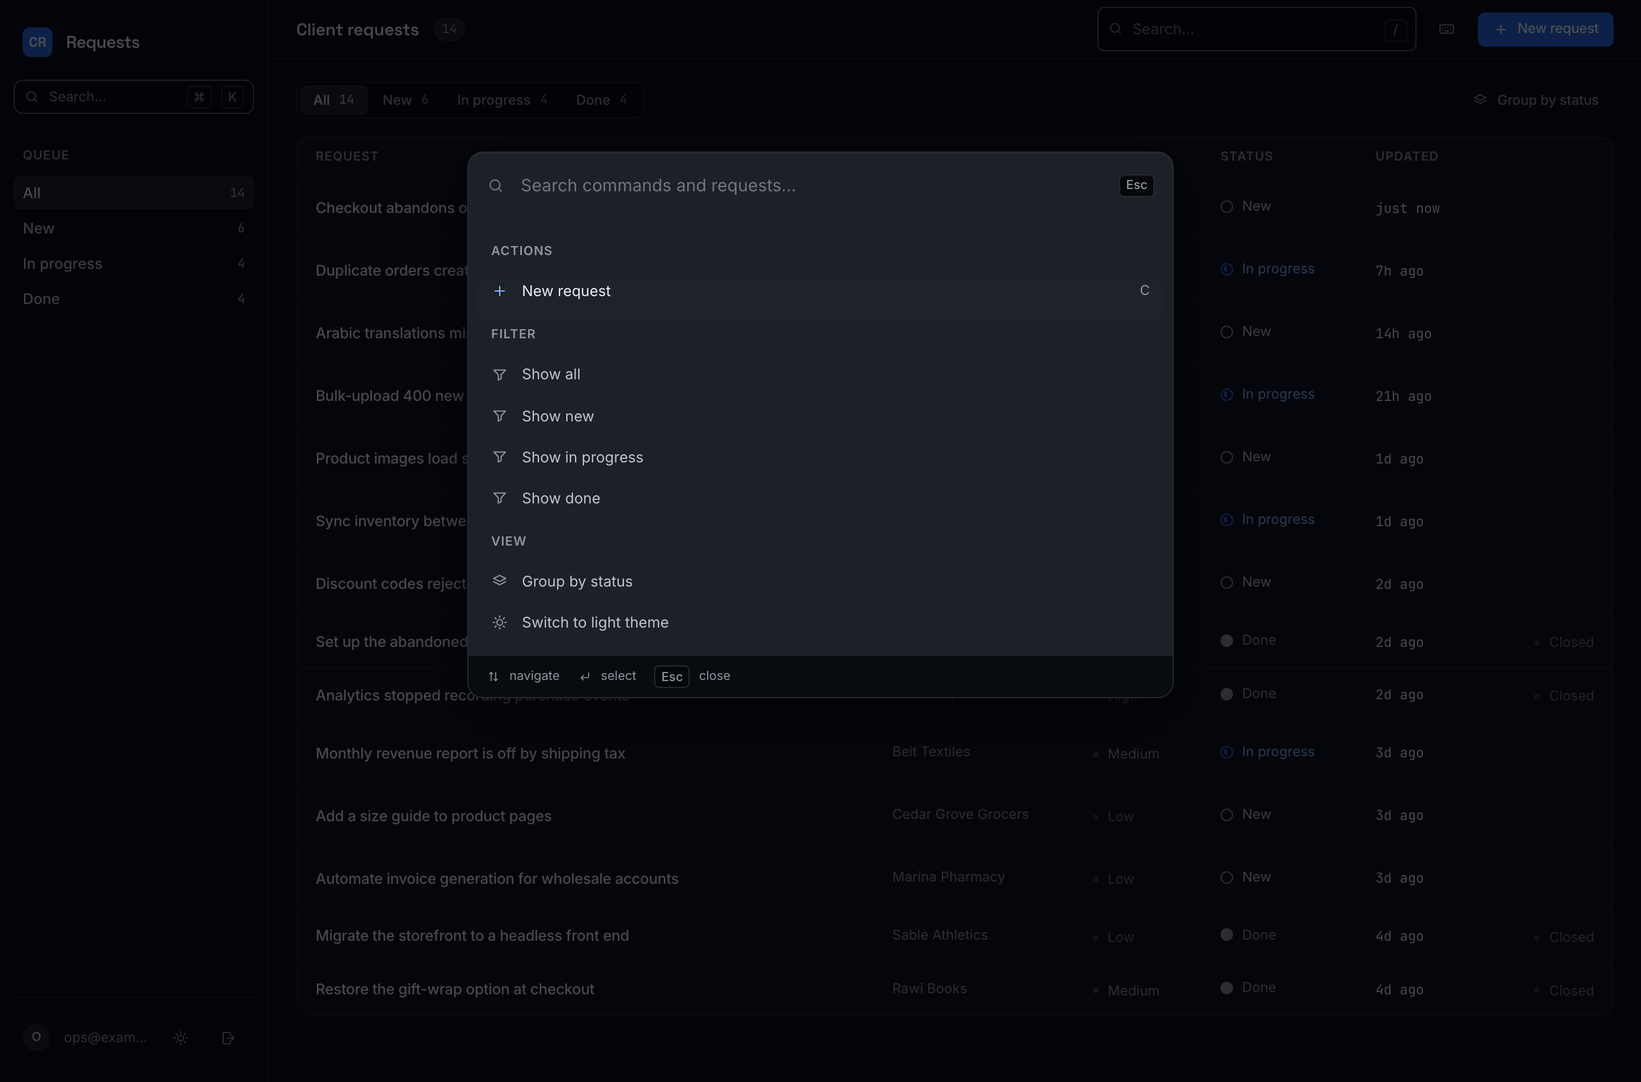
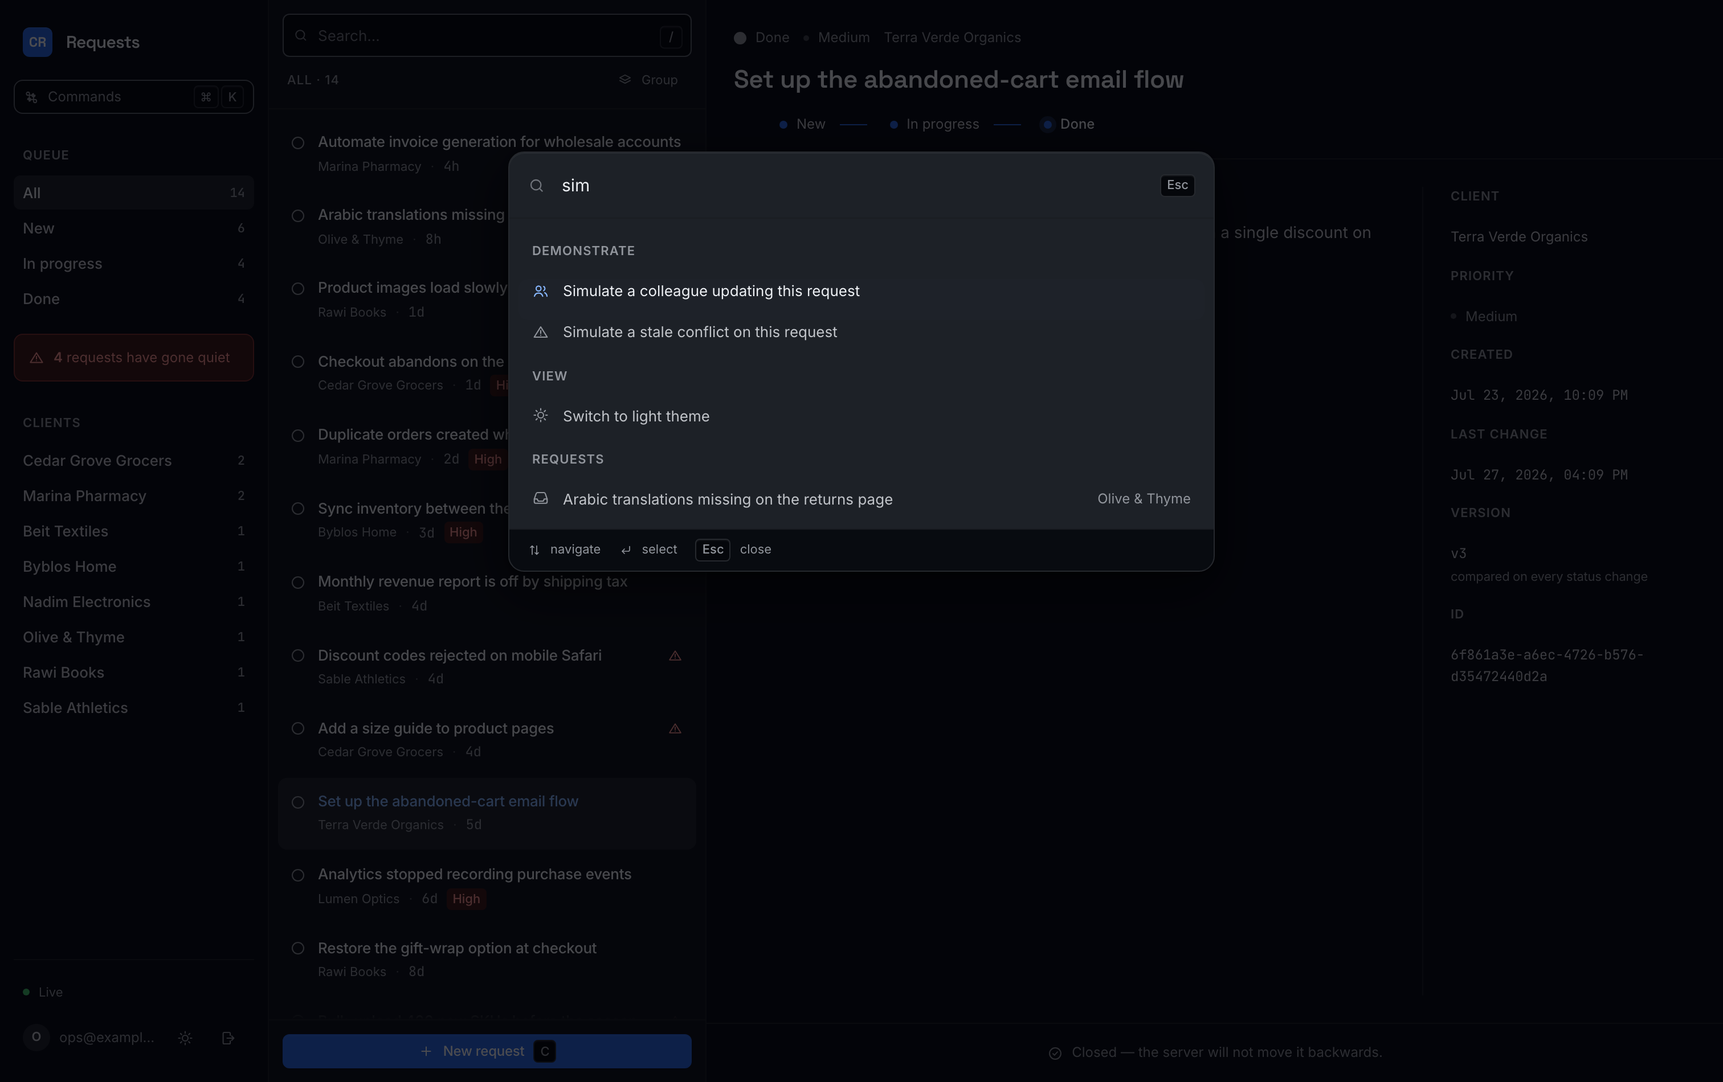
docs: README and screenshots for the cockpit
Covers the three panes and the keyboard model, the attention rules, the trail,
SSE with stream tickets, the demonstration commands, and a deployment path
(Neon → Render → Vercel) with migrations as a pre-deploy step.

Drops the screenshots of the table UI, which no longer exists.

diff --git a/README.md b/README.md
@@ -1,21 +1,35 @@
 # Client Requests
 
-An internal dashboard for tracking incoming client work: what came in, who it is for,
-and where it stands. React + TypeScript on the front, Express + Postgres behind it.
+A triage cockpit for incoming client work: what came in, whose it is, where it stands,
+and — the part that matters for an agency — what has gone quiet. React + TypeScript on
+the front, Express + Postgres behind it, with changes pushed live over SSE.
 
 Keyboard-first, dark by default, with a light theme that follows your OS until you
 choose otherwise.
 
-![The requests dashboard](docs/dashboard.png)
+![The triage cockpit](docs/cockpit-dark.png)
+
+Three panes rather than a table. The rail is where you choose *what to look at* — by
+status, by client, or by what the server has flagged as neglected. The queue is a dense
+list you walk with `j`/`k`. The detail pane updates as you move, with no modal and no
+round trip, so reading through fourteen requests is fourteen keystrokes.
 
 <table>
 <tr>
+<td width="50%"><img src="docs/trail-dark.png" alt="A request's activity trail" /></td>
 <td width="50%"><img src="docs/palette.png" alt="Command palette" /></td>
-<td width="50%"><img src="docs/drawer.png" alt="Request detail drawer" /></td>
 </tr>
 <tr>
-<td><code>⌘K</code> — commands, filters, and every loaded request</td>
-<td>The full record, including the version the conflict check compares</td>
+<td>Every status change, who made it, and the version it produced</td>
+<td><code>⌘K</code> — fuzzy-matched commands, clients, and every loaded request</td>
+</tr>
+<tr>
+<td><img src="docs/request-log.png" alt="Live request log" /></td>
+<td><img src="docs/cockpit-light.png" alt="Light theme" /></td>
+</tr>
+<tr>
+<td><code>G</code> — every API call this tab has made, with timings and request ids</td>
+<td>The same interface in light</td>
 </tr>
 </table>
 
@@ -69,7 +83,11 @@ npm run dev
 | `ops@example.com` | `demo1234` |
 
 The API runs on `:4000`; Vite proxies `/api` to it, so there is no CORS setup and no
-base URL to configure.
+base URL to configure. Open a second window side by side and advance something in one —
+the other updates without a refresh.
+
+To see the concurrency handling without arranging a race yourself, press `⌘K` and look
+under **Demonstrate**.
 
 ### Scripts
 
@@ -90,6 +108,51 @@ derived from `DATABASE_URL` automatically.
 
 Built and tested on Node 26; anything from Node 20 up will work.
 
+### Deploying it
+
+Three free tiers, in this order — each step needs a URL from the one before it.
+
+**1. Postgres — [Neon](https://neon.tech).** Create a project and copy the pooled
+connection string. Seed it once from your machine — Render's pre-deploy step below
+handles migrations from then on:
+
+```bash
+DATABASE_URL='<neon connection string>' npm run db:migrate
+DATABASE_URL='<neon connection string>' npm run db:seed
+```
+
+**2. API — [Render](https://render.com).** New Web Service from the repo.
+
+| Setting | Value |
+| --- | --- |
+| Build command | `npm install && npm run build --workspace server` |
+| Pre-deploy command | `npm run migrate --workspace server` |
+| Start command | `npm start --workspace server` |
+| Health check path | `/api/v1/health` |
+
+Migrations run as a pre-deploy step rather than on boot. On one instance the difference
+is invisible; on two it is the difference between one migration and a race between
+replicas, and the runner is idempotent either way.
+
+Environment: `DATABASE_URL` (Neon), `AUTH_SECRET` (a long random string — not the
+example one), `NODE_ENV=production`, `DEMO_MODE=true`, and `CORS_ORIGIN` set to the
+Vercel URL from step 3. Leave `CORS_ORIGIN` blank on the first deploy and fill it in
+once you have that URL.
+
+**3. Client — [Vercel](https://vercel.com).** Import the repo, root directory `client`,
+framework Vite. One environment variable:
+
+```
+VITE_API_BASE_URL=https://<your-render-service>.onrender.com/api/v1
+```
+
+Then set `CORS_ORIGIN` on Render to the Vercel URL and redeploy it.
+
+Render's free tier sleeps after fifteen minutes of inactivity, so the first request
+after a quiet spell takes about thirty seconds. `DEMO_MODE=true` puts *Reset the demo
+data* in the palette, so a visitor who marks everything done cannot spoil it for the
+next one.
+
 ---
 
 ## The interface
@@ -98,18 +161,28 @@ Everything is reachable without a mouse. `?` opens the full sheet in-app.
 
 | Key | Action |
 | --- | --- |
-| `⌘K` / `Ctrl K` | Command palette — actions, filters, and jump-to-request |
+| `⌘K` / `Ctrl K` | Command palette — toggles, so the same key closes it |
+| `J` `K` | Move through the queue; the detail pane follows |
+| `H` `L` | Move focus between panes |
+| `E` | Advance the selected request |
 | `/` | Search |
 | `C` | New request |
-| `J` `K` | Move the selection |
-| `↵` | Open the selected request |
-| `E` | Advance the selected request |
 | `1`–`4` | Filter by status |
+| `5` | Only what needs attention |
+| `G` | Show the live request log |
+| `Esc` | Widen: clear the search, then the filters |
 | `?` | Shortcut sheet |
+
+Vertical for items, horizontal for panes. That is the vim spatial model, and it is worth
+having only because there *are* panes to move between — it is the reason the layout and
+the keyboard scheme were designed together rather than one bolted onto the other.
 
 The palette follows the Linear / Raycast pattern: it opens instantly with no entrance
 animation, the input keeps focus throughout, and the *highlight* moves between rows
 while the rows themselves stay put — an animated list is disorienting to arrow through.
+Matching is subsequence-based and scored, so "sim conf" finds "Simulate a stale
+conflict", and every command shows its shortcut — the palette is also how people learn
+the keys and stop needing the palette.
 
 Single-key shortcuts yield to whatever you are typing into. Without that guard, typing
 "check" into the search box would fire `C`, `E` and `K` on the way past; it is the
@@ -128,18 +201,23 @@ paint — otherwise every load flashes the wrong theme, which is the most obviou
 │       ├── config/env.ts          zod-validated environment, checked at boot
 │       ├── db/                    pool · migration runner · migrations · seed
 │       ├── middleware/            requestId · requireAuth · errorHandler
-│       ├── lib/                   ApiError · logger
+│       ├── lib/                   ApiError · logger · eventBus
 │       └── modules/
 │           ├── auth/              mock login, real signed tokens
+│           ├── events/            SSE stream · single-use stream tickets
+│           ├── demo/              env-gated reset, so a public demo survives visitors
 │           └── requests/          routes → controller → service → repository
+│                                  + attention rules, shared by JS and SQL
 └── client/
     └── src/
         ├── styles/                design tokens + one stylesheet
         ├── lib/apiClient.ts       the only place fetch is called
-        ├── components/            Button · Field · Badge · Toast · StateBlock
+        ├── components/            Button · Field · Badge · Toast · RequestLog
         └── features/
             ├── auth/              context · sign-in · route guard
-            └── requests/          page · table · status control · dialog · hooks
+            ├── command/           palette + subsequence scoring
+            ├── events/            useEventStream — SSE into the query cache
+            └── requests/          page · list · detail · dialog · hooks
 ```
 
 The backend is four layers, and each one only knows about the one below it:
@@ -157,16 +235,25 @@ database noise around it, and the SQL is reviewable without reading past busines
 
 ```
 click
-  └─ RequestsPage.handleAdvance()          reads the row's current version
+  └─ RequestsPage.advance()                reads the row's current version
       └─ useAdvanceStatus.mutate()
           ├─ onMutate                      cancel refetches, snapshot cache,
           │                                write the new status → UI updates now
           ├─ PATCH /api/v1/requests/:id/status
           │     └─ requireAuth             401 if the token is missing or expired
-          │     └─ controller              zod-parses body and params
-          │     └─ service                 is new → in_progress legal?  422 if not
-          │     └─ repository              UPDATE … WHERE id = $1 AND version = $2
-          │                                0 rows matched → someone else won → 409
+          │     └─ controller              zod-parses body and params; takes the
+          │                                actor from the session, not the body
+          │     └─ service                 stale version?           → 409
+          │                                is new → in_progress legal?  422 if not
+          │     └─ repository              one statement:
+          │                                  UPDATE … WHERE id = $1 AND version = $2
+          │                                  + INSERT the event, reading from it
+          │                                0 rows matched → someone else won → 409,
+          │                                and no history is written
+          │     └─ service                 publish `request.updated` — after commit,
+          │                                never before
+          │                                   └─ SSE → every other connected tab,
+          │                                      which patches that one row in place
           ├─ onError                       roll back; on 409 write the live row the
           │                                server sent and explain in a toast
           └─ onSettled                     invalidate, refetch, cache matches server
@@ -179,17 +266,21 @@ click
 Base path `/api/v1`. Everything except `/health` and `/auth/login` needs
 `Authorization: Bearer <token>`.
 
-| Method  | Path                    | Purpose                                    |
-| ------- | ----------------------- | ------------------------------------------ |
-| `GET`   | `/health`               | Liveness, including a real database ping   |
-| `POST`  | `/auth/login`           | Exchange credentials for a session token   |
-| `GET`   | `/auth/me`              | Who the current token belongs to           |
-| `GET`   | `/requests`             | Paginated list; filter, search, sort       |
-| `GET`   | `/requests/stats`       | Counts per status, for the sidebar         |
-| `POST`  | `/requests`             | Create — always starts at `new`            |
-| `PATCH` | `/requests/:id/status`  | Advance the status                         |
+| Method  | Path                     | Purpose                                          |
+| ------- | ------------------------ | ------------------------------------------------ |
+| `GET`   | `/health`                | Liveness, including a real database ping         |
+| `POST`  | `/auth/login`            | Exchange credentials for a session token         |
+| `GET`   | `/auth/me`               | Who the current token belongs to                 |
+| `GET`   | `/requests`              | Paginated list; filter, search, sort             |
+| `GET`   | `/requests/stats`        | Counts per status and per client, for the rail   |
+| `GET`   | `/requests/:id/activity` | That request's trail, oldest first               |
+| `POST`  | `/requests`              | Create — always starts at `new`                  |
+| `PATCH` | `/requests/:id/status`   | Advance the status                               |
+| `POST`  | `/events/ticket`         | Exchange the session token for a stream ticket   |
+| `GET`   | `/events?ticket=…`       | Server-Sent Events: `request.created`/`.updated` |
+| `POST`  | `/demo/reset`            | Reseed. Only mounted when `DEMO_MODE=true`.      |
 
-**List** — `?status=new|in_progress|done&q=<text>&page=1&pageSize=20&sort=createdAt:desc`
+**List** — `?status=new|in_progress|done&attention=true&client=<name>&q=<text>&page=1&pageSize=20`
 
 ```jsonc
 {
@@ -203,7 +294,15 @@ Base path `/api/v1`. Everything except `/health` and `/auth/login` needs
       "status": "new",
       "version": 1,
       "createdAt": "2026-07-27T09:14:02.331Z",
-      "updatedAt": "2026-07-27T09:14:02.331Z"
+      "updatedAt": "2026-07-27T09:14:02.331Z",
+
+      // Derived on every read, never stored — it is a function of the clock, so a
+      // stored copy would be wrong the moment nobody wrote to the row.
+      "attention": {
+        "reason": "unacknowledged_high",
+        "label": "High priority, unacknowledged for 30 hours",
+        "hours": 30
+      }
     }
   ],
   "pagination": { "page": 1, "pageSize": 20, "total": 14, "totalPages": 1 }
@@ -268,6 +367,60 @@ and one person's action vanishes with no error anywhere. The check and the write
 single statement, so there is no read-then-write gap to race through — and it costs no
 locks.
 
+**The product has an opinion, and it lives on the server.** Every request in a flat
+queue is equal, which is exactly the failure mode of an agency queue — the thing that
+hurts is not volume, it is a request nobody has answered. Three rules in
+`requests.attention.ts` say what neglect looks like: a high-priority request
+unacknowledged for a day, anything waiting three days, work started and untouched for
+five. The thresholds are named constants used twice — once by the JavaScript that
+decorates each row, once by the SQL fragment that powers `?attention=true` and the
+count. One source, two consumers, so the filter and the badge can never disagree.
+
+It surfaces as a sentence — "4 requests have gone quiet" — rather than a stat card.
+Everyone ships stat cards and nobody reads them.
+
+**An append-only trail, written in the same statement as the change.** `client_requests`
+holds the current state; `request_events` holds how it got there — who, when, from what
+to what, and which version the write produced. The insert is a data-modifying CTE
+attached to the `UPDATE`, so there is no window where a status change exists without its
+history, and a compare-and-set that *loses* writes no history at all. The actor comes
+from the verified session, never the request body: an actor a client can name is an
+actor a client can forge, and a trail that records whatever it is told is worse than no
+trail because it looks authoritative.
+
+**Live updates over SSE, not WebSockets.** The traffic is entirely one-directional — the
+server says what changed, and there is already a perfectly good REST API for writing. A
+WebSocket would add a second protocol with its own framing, heartbeats and reconnect
+logic to buy a direction that is never used. On `request.updated` the client patches the
+matching row in every cached list *surgically* instead of invalidating; on
+`request.created` it invalidates, because a new row moves ordering and page boundaries.
+
+**Stream tickets, because `EventSource` cannot send a header.** The usual workaround is
+`?token=<session token>`, which writes an eight-hour credential into every access log,
+proxy cache and browser history entry along the way. Instead `POST /events/ticket`
+exchanges the bearer token for a **single-use, thirty-second** ticket, and the stream
+opens with that. A leaked ticket is worth nothing: it has already been spent. About
+twenty-five lines, and it is the difference between a demo and something you could
+deploy.
+
+**Timestamps are normalised in the driver.** Postgres writes
+`2026-07-23 21:19:37.119764+03` — a space instead of `T`, and an offset with no minutes.
+`Date` is not required to parse that: V8 does, which is why it looks fine in Chrome and
+in Node, and Safari returns `Invalid Date`. One `toISOString()` in the type parser fixes
+it once for every timestamp in the system, rather than in each place that happens to
+render one. A bug that appears on one engine, in a field nobody thinks of as parsed, is
+exactly the kind that reaches production.
+
+**The strongest engineering here is invisible, so there is a way to see it.** A
+*Demonstrate* group in the palette fires a genuine second-session write. "Simulate a
+colleague" lets the update arrive over the stream and watch the row change in front of
+you. "Simulate a stale conflict" makes the same write but withholds the live update for
+that one row, so this client is *genuinely* stale and the next advance produces a real
+409 from a real version mismatch. Nothing about the server is faked; the only trick is
+withholding a refresh, which is precisely the state a backgrounded tab is in. `G` opens
+a log of every call the tab has made, with status, duration and the request id that
+matches the server's logs.
+
 **Optimistic updates, with an honest rollback.** The row changes the instant you click
 rather than after the round trip. If the server disagrees, the cache rolls back to the
 snapshot taken before the mutation, and a 409 additionally writes in the live row the
@@ -326,8 +479,13 @@ Front end:
 - Forms validate on blur and then live, so nobody is told their email is wrong while
   typing the first character. Helper text reserves its line so errors do not push the
   page down.
-- Below 768px the table becomes cards — still a real `<table>` in the markup, with each
-  cell labelled, rather than a data grid you have to scroll sideways.
+- The layout degrades in two steps, not one: below 1100px the detail pane becomes an
+  overlay over the queue; below 860px the rail folds into a top bar. Both paths reuse the
+  same components, so there is no second implementation to keep in sync.
+- The selection is validated against the list rather than merely set. Switching filters
+  keeps the previous page on screen while the next loads, so a naive "select the first
+  row" grabs one from the list that is about to be replaced — and lands on an id nothing
+  matches, leaving an empty pane beside a full queue with no state change left to fix it.
 - Keyboard-complete: skip link, visible focus rings everywhere, native `<dialog>` for
   the focus trap and Escape handling. Dialogs move focus to the first field, not the
   close button — otherwise a keyboard user's opening move is "cancel".
@@ -351,6 +509,9 @@ Back end:
   unauthenticated write.
 - Migrations tracked in `schema_migrations`, each applied inside a transaction with its
   own bookkeeping row.
+- The SSE endpoint sends a comment heartbeat every 25 seconds, so an idle connection is
+  not silently reaped by a proxy, and shutdown closes open streams first — without that
+  the process ignores `SIGTERM` and waits for a timeout that never comes.
 - Parameterised queries throughout.
 - Internal errors are logged with their stack and returned as an opaque 500.
 
@@ -362,14 +523,21 @@ Back end:
 npm test
 ```
 
-Ten integration tests through the real HTTP stack and a real Postgres, covering the
-parts most worth protecting:
+Twenty-one integration tests through the real HTTP stack and a real Postgres, covering
+the parts most worth protecting:
 
 ```
 auth boundary          401 without a token · 401 on a tampered token
 validation             400 with the offending field named
 status state machine   new → in_progress → done · rejects skipping · rejects reopening
 optimistic concurrency 409 on a stale version, with the live row attached
+activity trail         one entry per write · actor from the session · nothing on a
+                       lost compare-and-set · 404 for a request that does not exist
+attention rules        each reason fires on known-age rows; the SQL count and the
+                       JavaScript predicate agree
+client scoping         list narrows to one client · stats count open work per client
+stream tickets         401 unauthenticated · opens a stream once · rejected on reuse
+                       and when forged
 listing                pagination envelope · status filter
 health                 reports database connectivity
 ```
@@ -377,20 +545,27 @@ health                 reports database connectivity
 They are deliberately not mocked. The version compare-and-set, the enum constraint, and
 the pagination envelope are exactly the things a mock would paper over.
 
+The UI has its own suite, driven through Playwright against the running stack: fifty-one
+behavioural checks (optimistic update with the response held open, the conflict path,
+the keyboard model, live sync between two real browser contexts, ticket reuse) plus a
+contrast and responsive pass that measures every text pair and control boundary against
+WCAG in **both** themes at five widths.
+
 ---
 
 ## What I would add next
 
 Named deliberately — these are choices, not omissions:
 
-- **An audit trail.** `request_status_events` recording who moved what and when, written
-  in the same transaction as the status change. The current model knows the state but
-  not the history.
 - **Real authentication.** Users table, hashed passwords, short-lived access tokens with
-  refresh, and per-user attribution on requests.
-- **Push instead of poll.** Refetch-on-focus covers most of the staleness, but a
-  WebSocket or SSE channel would let one person's change appear on everyone's screen
-  immediately — and would make the 409 path rare rather than routine.
+  refresh. The trail already records an actor per write, so it would gain real identities
+  rather than a new column.
+- **The event bus should not be in-process.** `eventBus.ts` broadcasts to the responses
+  held by *this* process. Run two instances behind a load balancer and a change made on
+  one is invisible to everyone connected to the other. Redis pub/sub between the writer
+  and the streams is the fix, and it is the first thing that breaks on a second replica.
+- **Assignment.** Requests belong to a client but not yet to a person, so "gone quiet"
+  cannot become "gone quiet on *you*" — which is the version of that signal people act on.
 - **Keyset pagination.** `OFFSET` degrades on deep pages; seeking on `(created_at, id)`
   stays flat. Not worth it at this size, worth it before the table gets large.
 - **Error reporting and tracing.** Sentry on both sides, and OpenTelemetry spans so a
